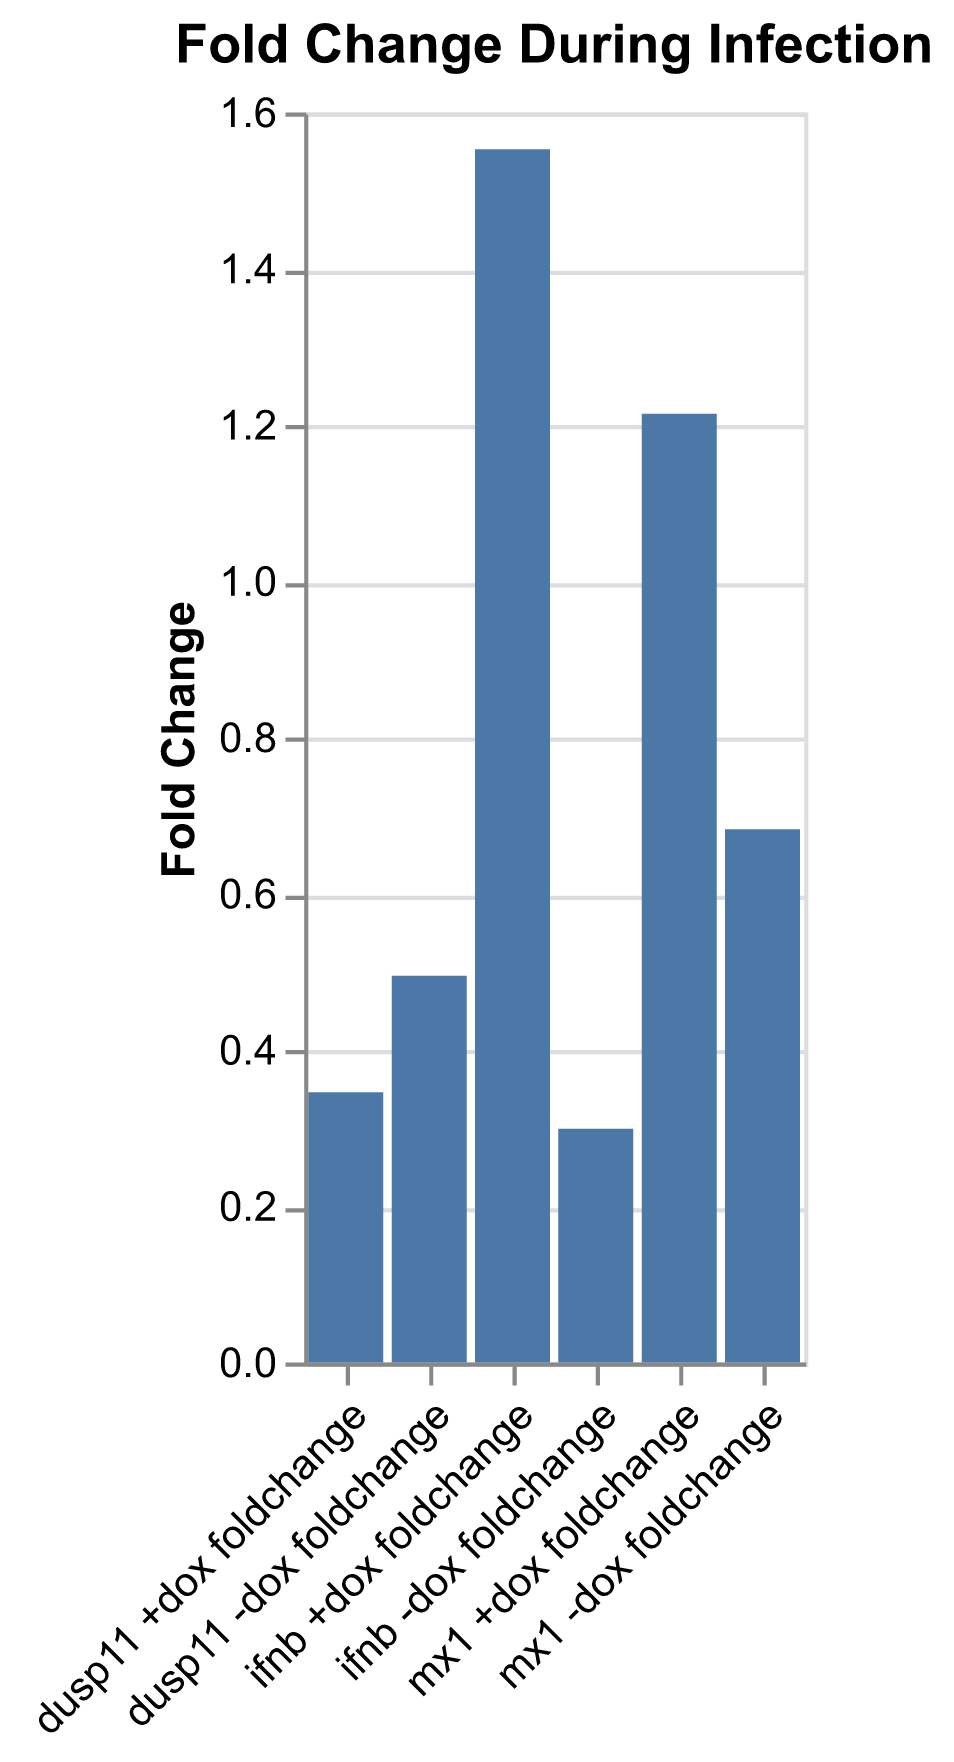
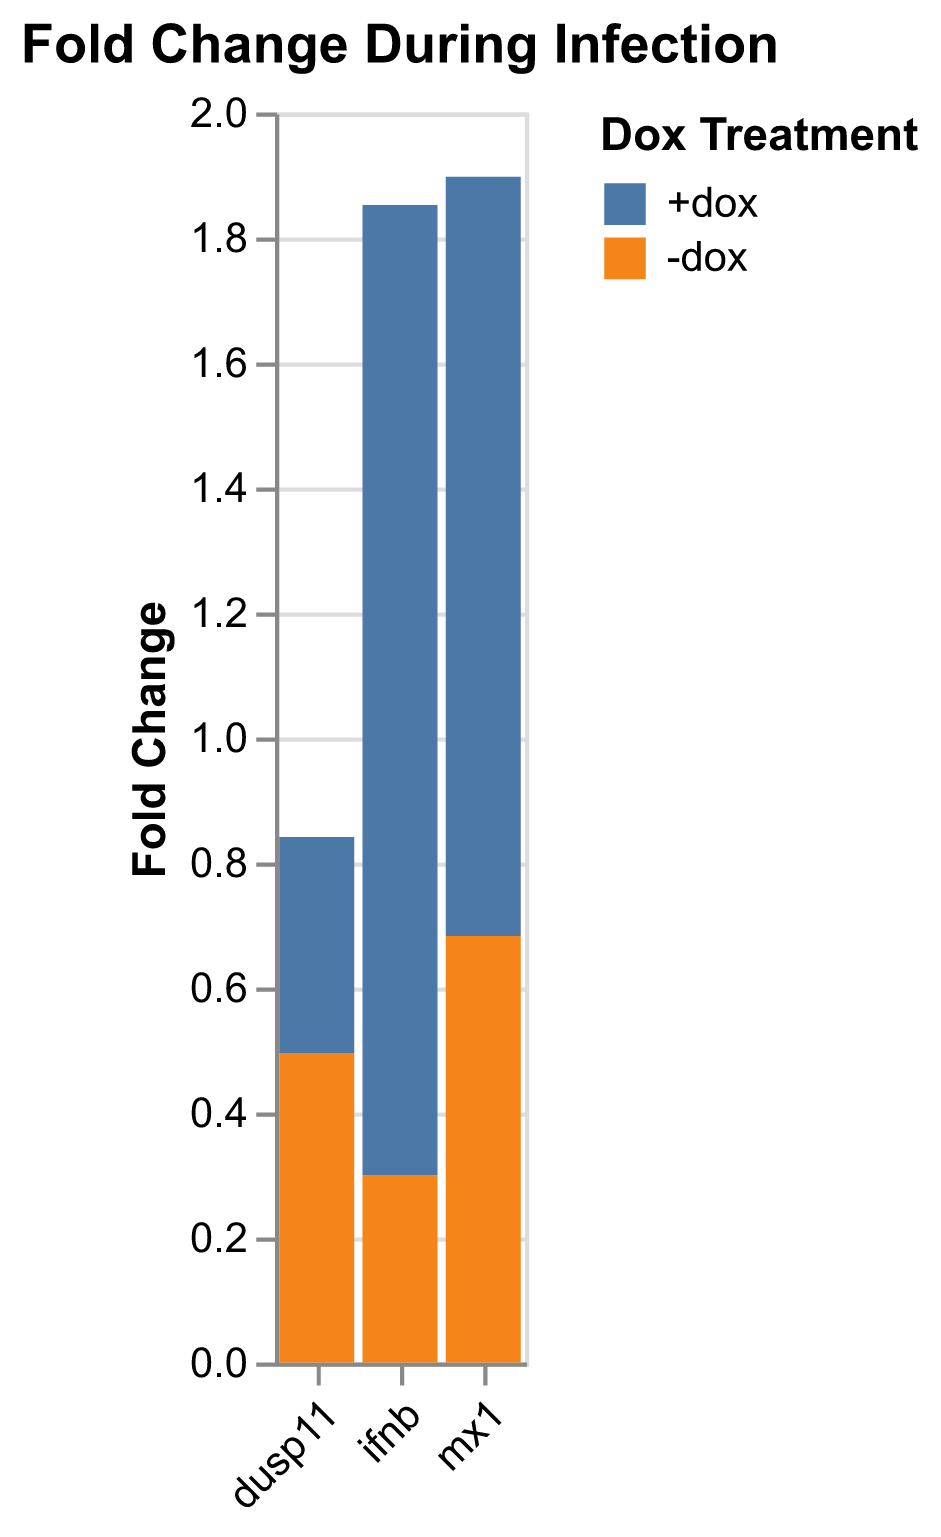
Refactor code to split and rename columns in foldchange_df_ix

diff --git a/TN042/TN042.3.py b/TN042/TN042.3.py
@@ -97,7 +97,11 @@ for key, ddct in ddct_results.items():
     foldchange_df_ix[f"{key} foldchange"] = 2**-ddct
 foldchange_df_ix = foldchange_df_ix.melt(var_name="Condition", value_name="Fold Change")
 ddct_df_ix = ddct_df_ix.melt(var_name="Condition", value_name="ddCT")
-foldchange_df_ix["Condition"] = foldchange_df_ix["Condition"].str.replace("_", " ")
+# foldchange_df_ix["Condition"] = foldchange_df_ix["Condition"].str.replace("_", " ")
+# foldchange_df_ix["dox"] = foldchange_df_ix["Condition"].str.split("_").str[1]
+foldchange_df_ix["dox"] = foldchange_df_ix["Condition"].str.split("_").str[1]
+foldchange_df_ix["dox"] = foldchange_df_ix["dox"].str.split(" ").str[0]
+foldchange_df_ix["Condition"] = foldchange_df_ix["Condition"].str.split("_").str[0]
 ddct_df_ix.to_excel("ddct_ix.xlsx")
 foldchange_df_ix.to_excel("foldchange_ix.xlsx")
 
@@ -116,11 +120,12 @@ title = alt.TitleParams("Fold Change During Infection", anchor="middle")
 ix_plot = alt.Chart(foldchange_df_ix, title = title).mark_bar().encode(
     alt.X("Condition", title="", axis=alt.Axis(labelAngle=-45)),
     alt.Y("Fold Change", title="Fold Change"),
+    color = alt.Color("dox").title("Dox Treatment"),
 )
 ix_plot.save("ix_plot.png", ppi=300)
 
 dox_plot = alt.Chart(foldchange_df_dox, title = "Fold Change During Dox Treatment").mark_bar().encode(
     alt.X("Condition", title="", axis=alt.Axis(labelAngle=-45)),
-    alt.Y("Fold Change", title="Fold Change"),
+    alt.Y("Fold Change", title="Fold Change")
 )
 dox_plot.save("dox_plot.png", ppi=300)
